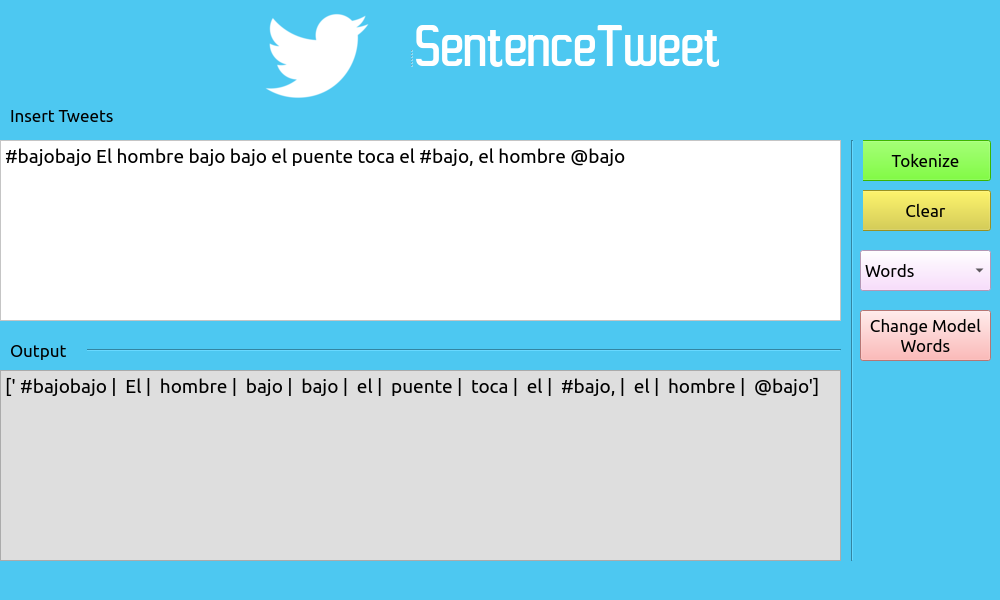
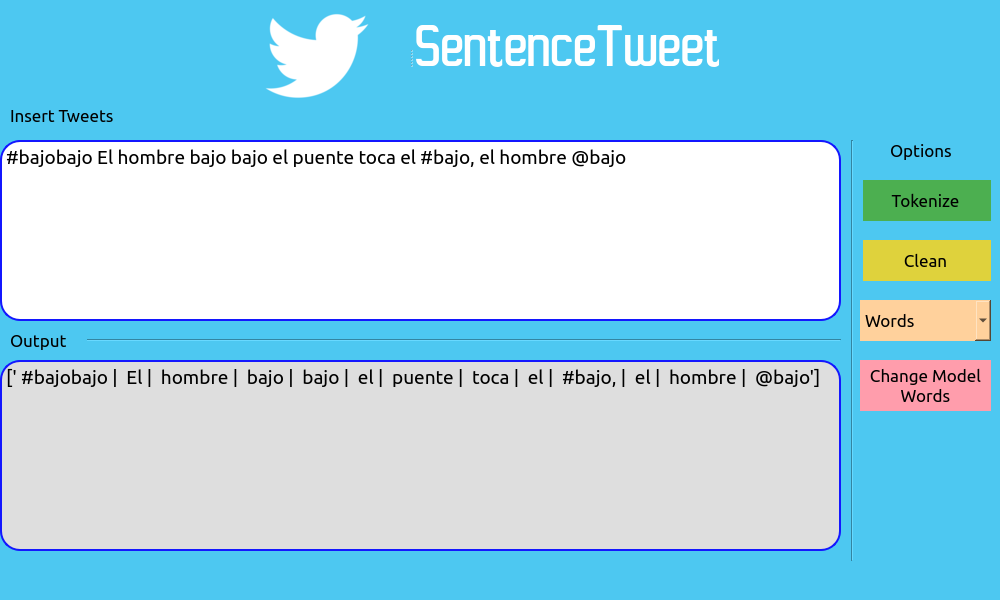
improvements

Changed region(s): [[0.0, 0.21, 0.992, 0.69], [0.0, 0.9, 0.868, 0.96], [0.0, 0.21, 0.837, 0.3]]

diff --git a/SentencePieceTwitter/GUI/gui.py b/SentencePieceTwitter/GUI/gui.py
@@ -26,25 +26,54 @@ class Ui_MainWindow(object):
         font.setPointSize(14)
         font.setItalic(False)
         self.plainTextEdit.setFont(font)
-        self.plainTextEdit.setStyleSheet("background-color: rgb(255, 255, 255);")
+        self.plainTextEdit.setStyleSheet("background-color: rgb(255, 255, 255);\n"
+"border-style:solid;\n"
+"border-width:2px;\n"
+"border-color: rgb(19, 23, 255);\n"
+"border-radius: 20px;\n"
+"")
         self.plainTextEdit.setObjectName("plainTextEdit")
         self.pushButton = QtWidgets.QPushButton(self.centralwidget)
-        self.pushButton.setGeometry(QtCore.QRect(860, 140, 131, 41))
+        self.pushButton.setGeometry(QtCore.QRect(860, 180, 131, 41))
+        self.pushButton.setCursor(QtGui.QCursor(QtCore.Qt.PointingHandCursor))
         self.pushButton.setMouseTracking(False)
-        self.pushButton.setStyleSheet("background-color:rgb(85, 255, 0);")
+        self.pushButton.setStyleSheet("#pushButton {\n"
+"  background-color: #4CAF50; \n"
+"  color: black; \n"
+"  border: none ;\n"
+"}\n"
+"\n"
+"#pushButton:hover {\n"
+"  background-color: rgb(66, 255, 24);\n"
+"}\n"
+"")
         self.pushButton.setFlat(False)
         self.pushButton.setObjectName("pushButton")
         self.pushButton_2 = QtWidgets.QPushButton(self.centralwidget)
-        self.pushButton_2.setGeometry(QtCore.QRect(860, 190, 131, 41))
-        self.pushButton_2.setStyleSheet("background-color: rgb(214, 203, 48);")
+        self.pushButton_2.setGeometry(QtCore.QRect(860, 240, 131, 41))
+        self.pushButton_2.setCursor(QtGui.QCursor(QtCore.Qt.PointingHandCursor))
+        self.pushButton_2.setStyleSheet("#pushButton_2 {\n"
+"  background-color: rgb(223, 210, 60);\n"
+"  color: black; \n"
+"  border: none ;\n"
+"}\n"
+"\n"
+"#pushButton_2:hover {\n"
+"  background-color: rgb(255, 248, 35);\n"
+"}\n"
+"")
         self.pushButton_2.setObjectName("pushButton_2")
         self.plainTextEdit_2 = QtWidgets.QPlainTextEdit(self.centralwidget)
-        self.plainTextEdit_2.setGeometry(QtCore.QRect(0, 370, 841, 191))
+        self.plainTextEdit_2.setGeometry(QtCore.QRect(0, 360, 841, 191))
         font = QtGui.QFont()
         font.setPointSize(14)
         font.setItalic(False)
         self.plainTextEdit_2.setFont(font)
         self.plainTextEdit_2.setStyleSheet("background-color: rgb(222, 222, 222);\n"
+"border-style:solid;\n"
+"border-width:2px;\n"
+"border-color: rgb(19, 23, 255);\n"
+"border-radius: 20px;\n"
 "")
         self.plainTextEdit_2.setReadOnly(True)
         self.plainTextEdit_2.setObjectName("plainTextEdit_2")
@@ -66,7 +95,7 @@ class Ui_MainWindow(object):
         self.label.setStyleSheet("color: rgb(255, 255, 255);")
         self.label.setObjectName("label")
         self.line = QtWidgets.QFrame(self.centralwidget)
-        self.line.setGeometry(QtCore.QRect(10, 340, 831, 20))
+        self.line.setGeometry(QtCore.QRect(10, 330, 831, 20))
         self.line.setFrameShape(QtWidgets.QFrame.HLine)
         self.line.setFrameShadow(QtWidgets.QFrame.Sunken)
         self.line.setObjectName("line")
@@ -76,22 +105,44 @@ class Ui_MainWindow(object):
         self.line_2.setFrameShadow(QtWidgets.QFrame.Sunken)
         self.line_2.setObjectName("line_2")
         self.comboBox = QtWidgets.QComboBox(self.centralwidget)
-        self.comboBox.setGeometry(QtCore.QRect(860, 250, 131, 41))
-        self.comboBox.setStyleSheet("color: rgb(0, 0, 0);\n"
-"background-color: rgb(250, 211, 255);")
+        self.comboBox.setGeometry(QtCore.QRect(860, 300, 131, 41))
+        self.comboBox.setCursor(QtGui.QCursor(QtCore.Qt.PointingHandCursor))
+        self.comboBox.setStyleSheet("#comboBox {\n"
+"  background-color: rgb(255, 209, 156);\n"
+"  color: black; \n"
+"  border: none ;\n"
+"}\n"
+"\n"
+"#comboBox:hover {\n"
+"  background-color: rgb(255, 164, 85);\n"
+"}\n"
+"")
         self.comboBox.setObjectName("comboBox")
         self.comboBox.addItem("")
         self.comboBox.addItem("")
         self.pushButton_3 = QtWidgets.QPushButton(self.centralwidget)
-        self.pushButton_3.setGeometry(QtCore.QRect(860, 310, 131, 51))
-        self.pushButton_3.setStyleSheet("background-color: rgb(255, 165, 162);")
+        self.pushButton_3.setGeometry(QtCore.QRect(860, 360, 131, 51))
+        self.pushButton_3.setCursor(QtGui.QCursor(QtCore.Qt.PointingHandCursor))
+        self.pushButton_3.setStyleSheet("#pushButton_3 {\n"
+"  background-color: rgb(255, 157, 172);\n"
+"  color: black; \n"
+"  border: none ;\n"
+"}\n"
+"\n"
+"#pushButton_3:hover {\n"
+"  background-color: rgb(255, 73, 246);\n"
+"}\n"
+"")
         self.pushButton_3.setObjectName("pushButton_3")
         self.label_3 = QtWidgets.QLabel(self.centralwidget)
         self.label_3.setGeometry(QtCore.QRect(10, 100, 151, 31))
         self.label_3.setObjectName("label_3")
         self.label_4 = QtWidgets.QLabel(self.centralwidget)
-        self.label_4.setGeometry(QtCore.QRect(10, 340, 77, 21))
+        self.label_4.setGeometry(QtCore.QRect(10, 330, 77, 21))
         self.label_4.setObjectName("label_4")
+        self.label_5 = QtWidgets.QLabel(self.centralwidget)
+        self.label_5.setGeometry(QtCore.QRect(890, 140, 77, 21))
+        self.label_5.setObjectName("label_5")
         MainWindow.setCentralWidget(self.centralwidget)
         self.menubar = QtWidgets.QMenuBar(MainWindow)
         self.menubar.setGeometry(QtCore.QRect(0, 0, 1000, 29))
@@ -112,7 +163,7 @@ class Ui_MainWindow(object):
         _translate = QtCore.QCoreApplication.translate
         MainWindow.setWindowTitle(_translate("MainWindow", "SentenceTweet"))
         self.pushButton.setText(_translate("MainWindow", "Tokenize"))
-        self.pushButton_2.setText(_translate("MainWindow", "Clear"))
+        self.pushButton_2.setText(_translate("MainWindow", "Clean"))
         self.label.setText(_translate("MainWindow", "SentenceTweet"))
         self.comboBox.setItemText(0, _translate("MainWindow", "Words"))
         self.comboBox.setItemText(1, _translate("MainWindow", "Prefixes"))
@@ -120,6 +171,7 @@ class Ui_MainWindow(object):
 "Words"))
         self.label_3.setText(_translate("MainWindow", "Insert Tweets"))
         self.label_4.setText(_translate("MainWindow", "Output"))
+        self.label_5.setText(_translate("MainWindow", "Options"))
         self.actionNew_file.setText(_translate("MainWindow", "New file"))
 
 
